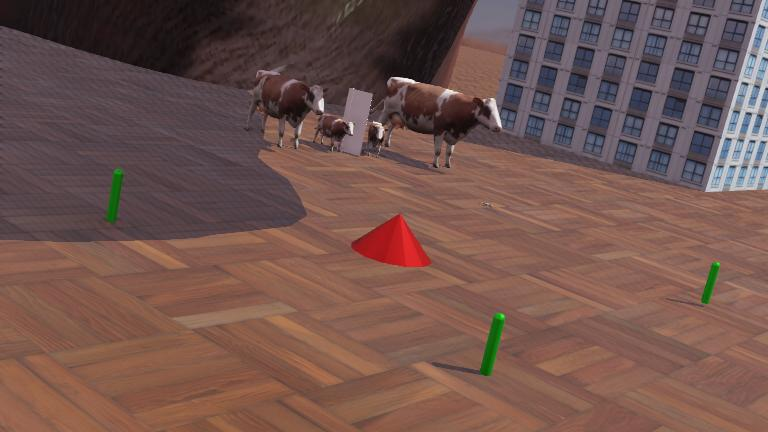
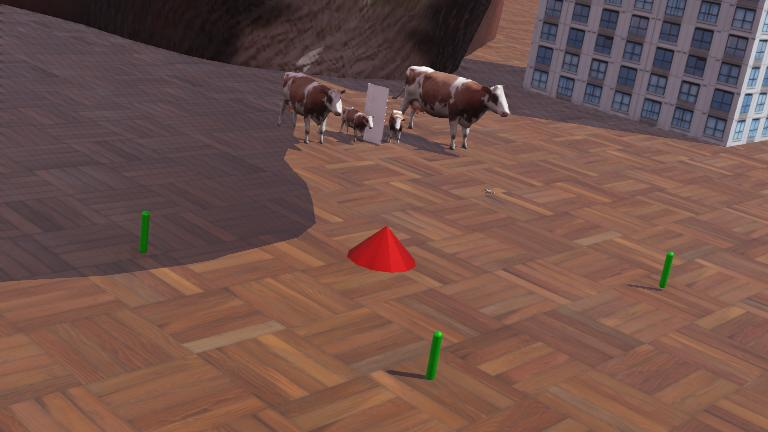
frustration ensues

diff --git a/world/controllers/emitter/beacon_controller.py b/world/controllers/emitter/beacon_controller.py
@@ -1,0 +1,2 @@
+from controller import Robot, Emitter
+

diff --git a/README.md b/README.md
@@ -43,6 +43,7 @@ Using ROS **noetic**
 
 - Beacon blocked by object
 - Signal out of range
+- Using a [Supervisor](https://cyberbotics.com/doc/guide/tutorial-8-the-supervisor?tab-language=python) to dynamically change the simulation environment
 
 ## Extended Kalman Filter
 
